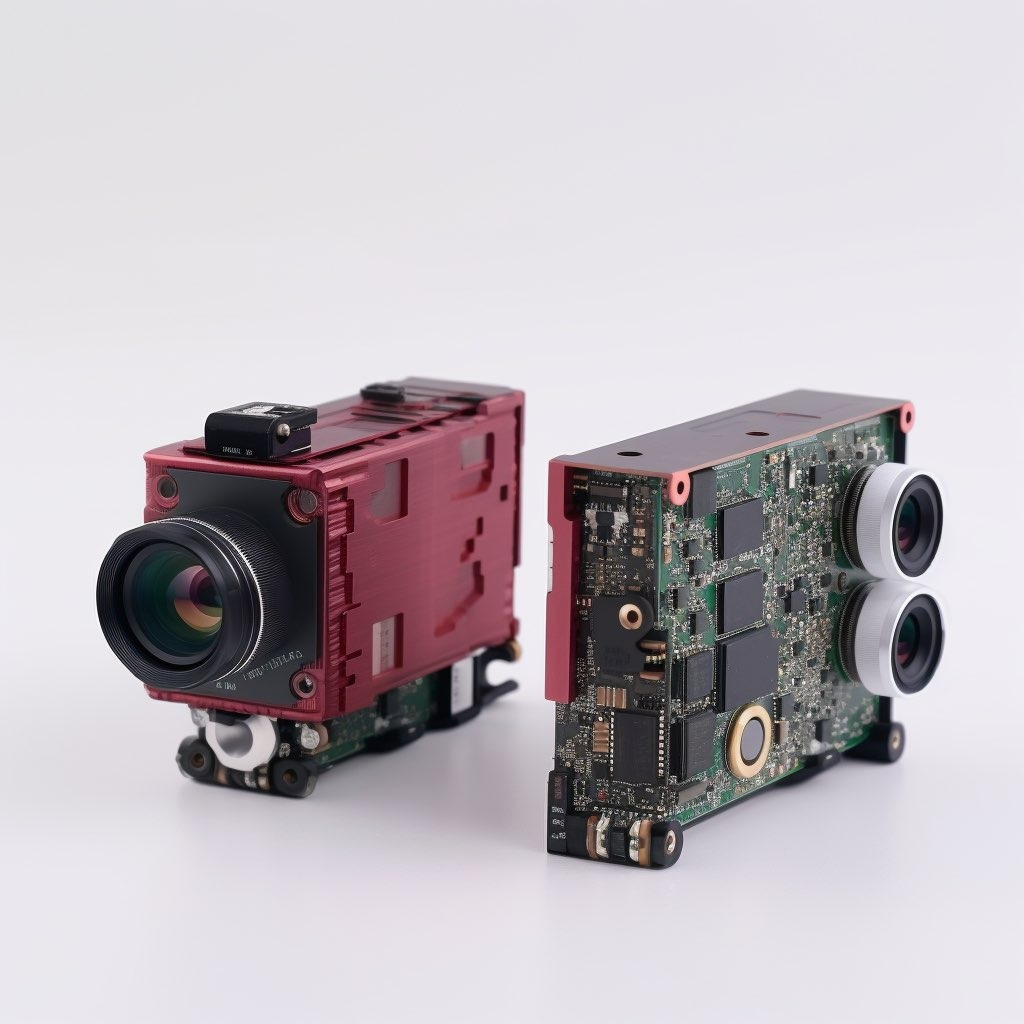
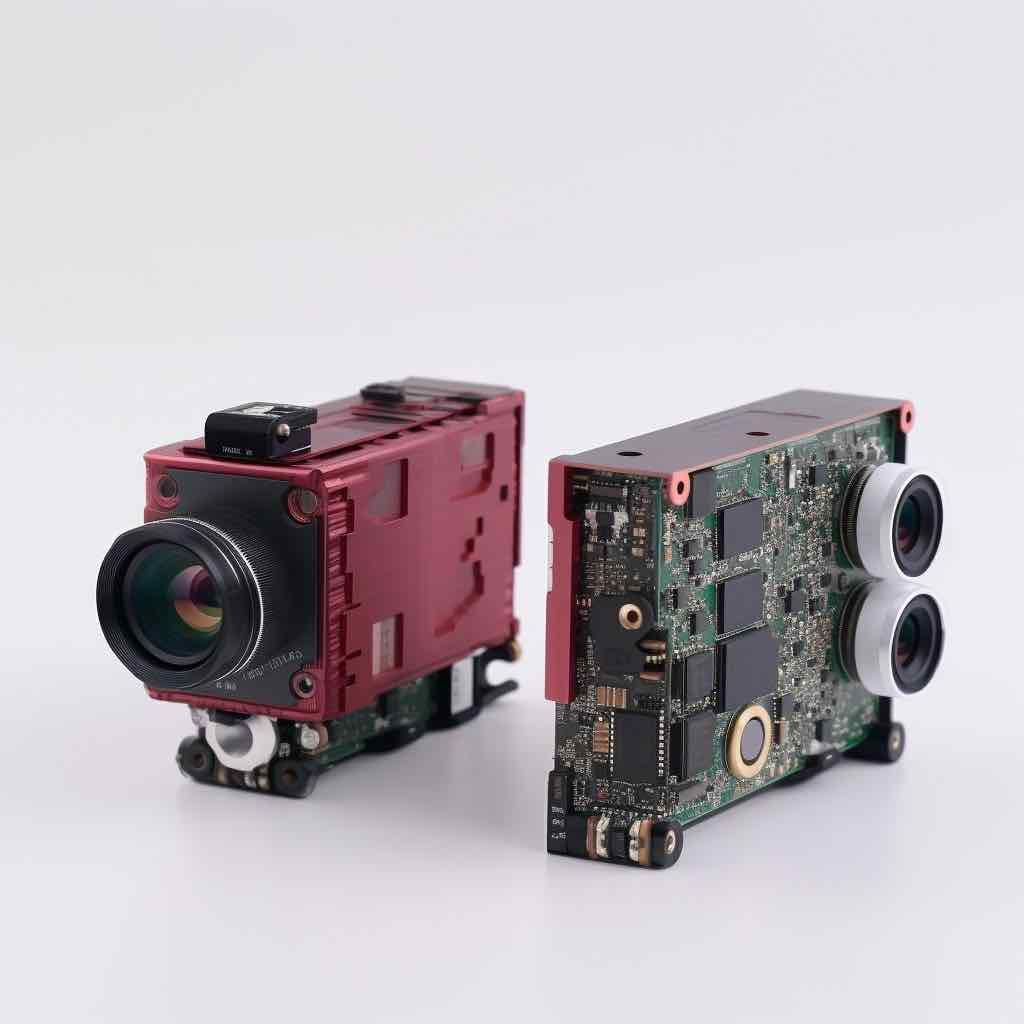
image size reduction

diff --git a/src/app/marketing/about-us/about-us.component.html b/src/app/marketing/about-us/about-us.component.html
@@ -171,7 +171,7 @@
                 /> -->
 
                 <img
-                  src="../../../assets/baby-goose.png"
+                  src="../../../assets/baby-goose.webp"
                   alt=""
                   class="aspect-[2/3] w-full rounded-xl bg-gray-900/5 object-cover shadow-lg"
                 />
@@ -193,7 +193,7 @@
                 /> -->
 
                 <img
-                  src="../../../assets/bird.png"
+                  src="../../../assets/bird.jpg"
                   alt=""
                   class="aspect-[2/3] w-full rounded-xl bg-gray-900/5 object-cover shadow-lg"
                 />
@@ -211,7 +211,7 @@
                 /> -->
 
                 <img
-                  src="../../../assets/baby.png"
+                  src="../../../assets/baby.webp"
                   alt=""
                   class="aspect-[2/3] w-full rounded-xl bg-gray-900/5 object-cover shadow-lg"
                 />
@@ -231,7 +231,7 @@
                 /> -->
 
                 <img
-                  src="../../../assets/cameras-2.jpeg"
+                  src="../../../assets/cameras-2.jpg"
                   alt=""
                   class="aspect-[2/3] w-full rounded-xl bg-gray-900/5 object-cover shadow-lg"
                 />
@@ -249,7 +249,7 @@
                 /> -->
 
                 <img
-                  src="../../../assets/bird-logo.png"
+                  src="../../../assets/bird-logo.jpg"
                   alt=""
                   class="aspect-[2/3] w-full rounded-xl bg-gray-900/5 object-cover shadow-lg"
                 />
